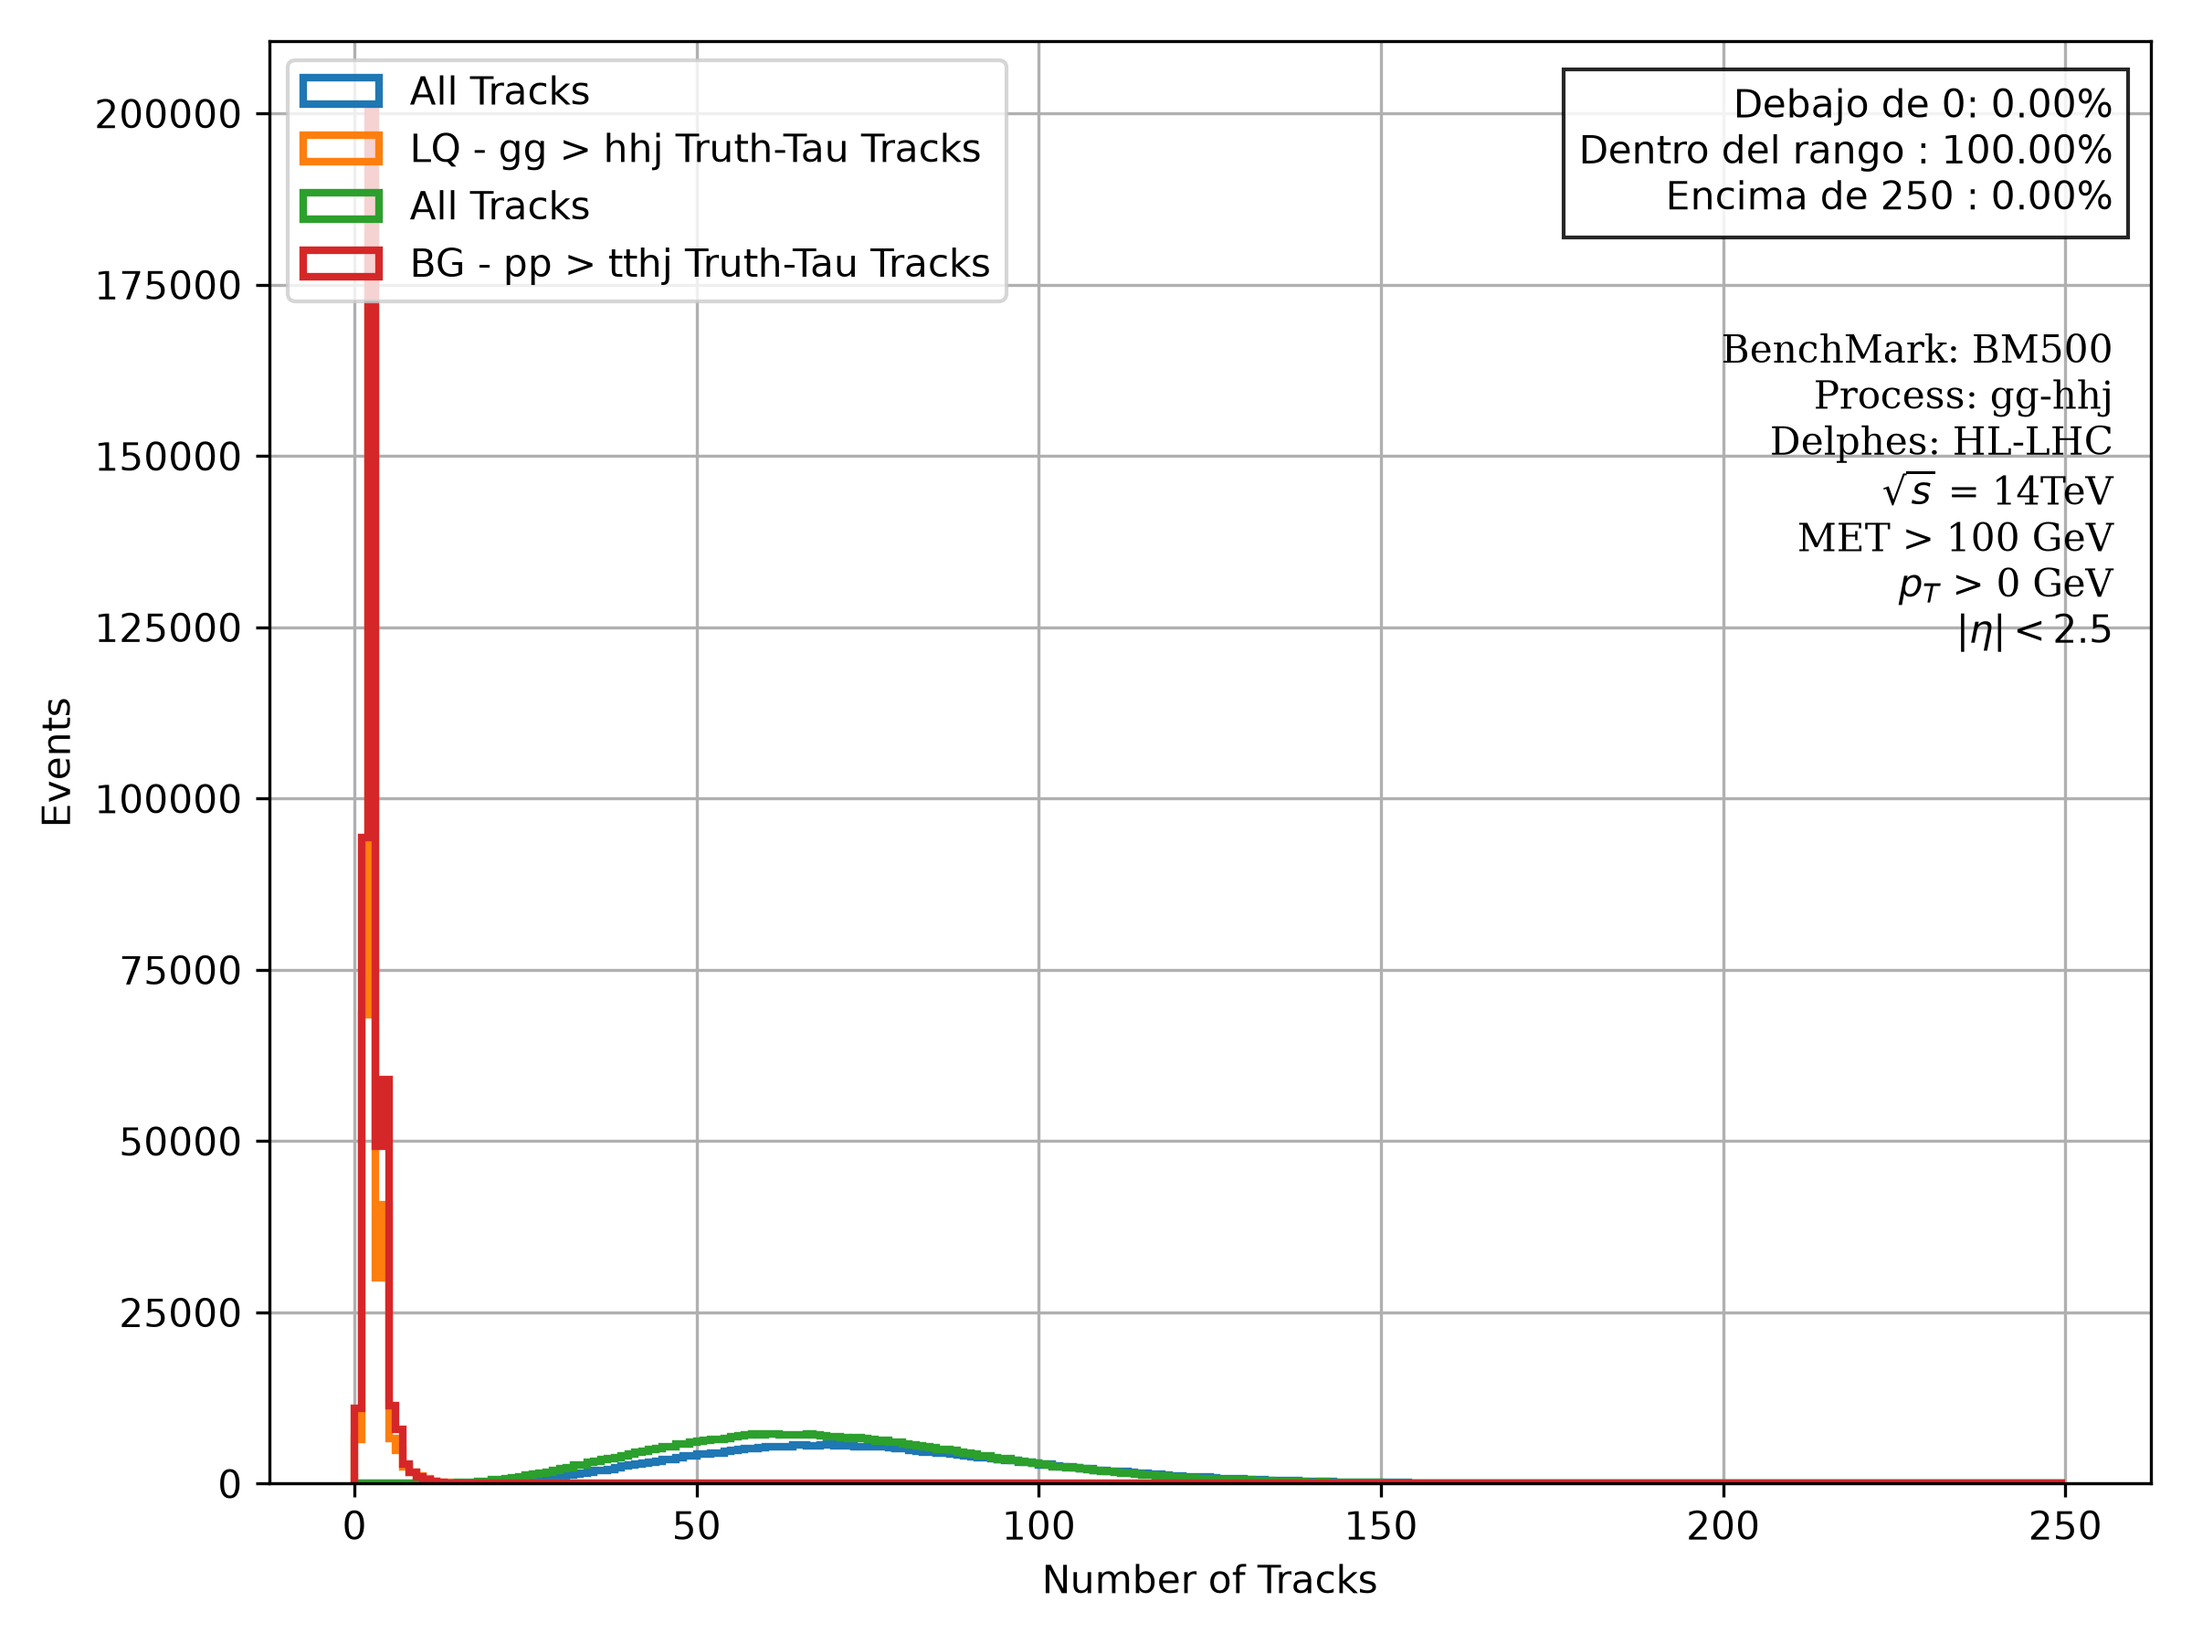
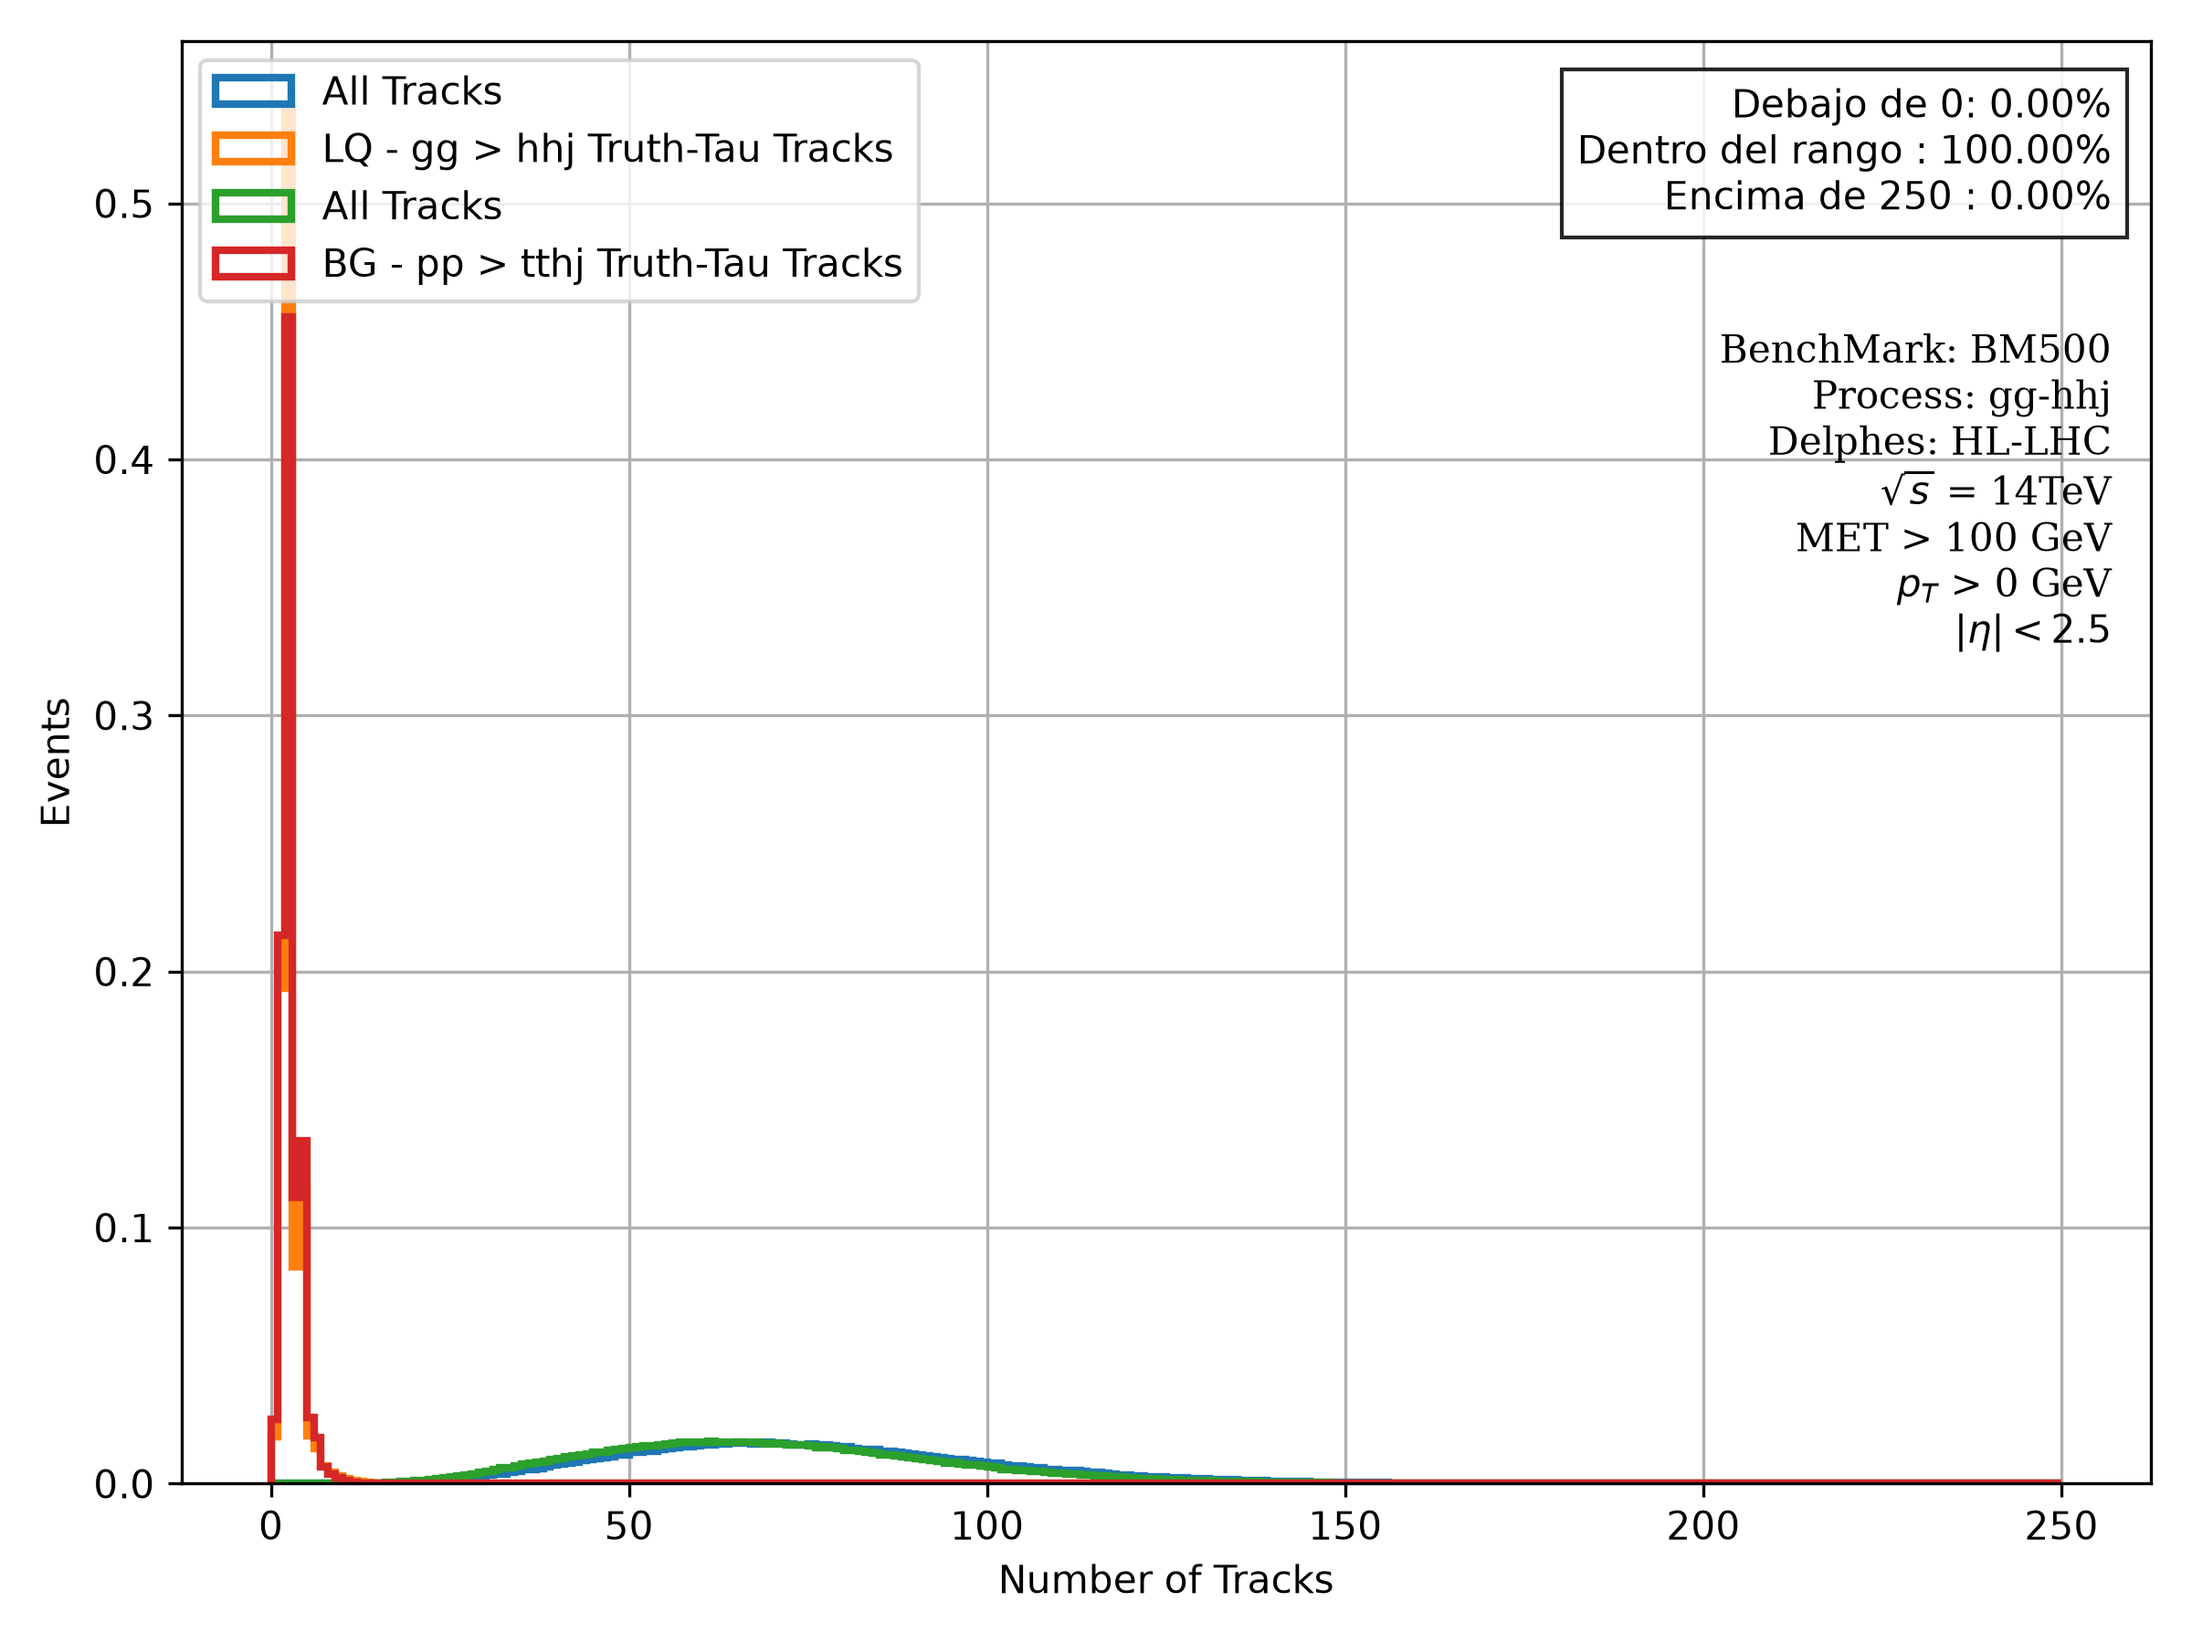
last

diff --git a/RecAnalysis/ROOT_analyzer.py b/RecAnalysis/ROOT_analyzer.py
@@ -440,8 +440,8 @@ plt.text(0.98, 0.8, Data_text_ID_tracks, transform=plt.gca().transAxes,
         ha="right", va="top", fontsize=10, family="DejaVu Serif")
 
 for i, (key, ntrk) in enumerate(ntrk_data.items()):
-        plt.hist(ntrk, bins=250, density=False, range=(lim_inf_ntrk, lim_sup_ntrk), histtype="step", linewidth=2, label=f"All Tracks")
-        plt.hist(ntrk_truthtau[key], bins=250, density=False, range=(lim_inf_ntrk, lim_sup_ntrk), histtype="step", linewidth=2, label=f"{key} Truth-Tau Tracks")
+        plt.hist(ntrk, bins=250, density=True, range=(lim_inf_ntrk, lim_sup_ntrk), histtype="step", linewidth=2, label=f"All Tracks")
+        plt.hist(ntrk_truthtau[key], bins=250, density=True, range=(lim_inf_ntrk, lim_sup_ntrk), histtype="step", linewidth=2, label=f"{key} Truth-Tau Tracks")
 
 plt.xlabel(r"Number of Tracks")
 plt.ylabel("Events")
